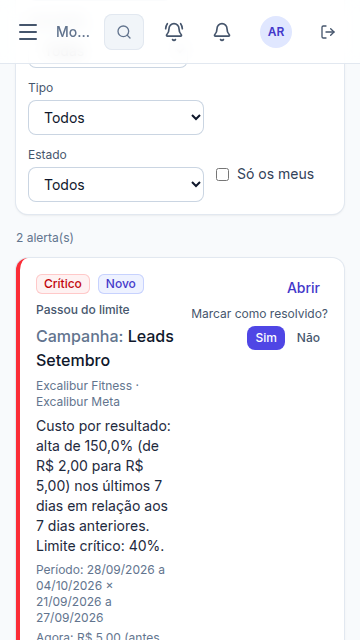
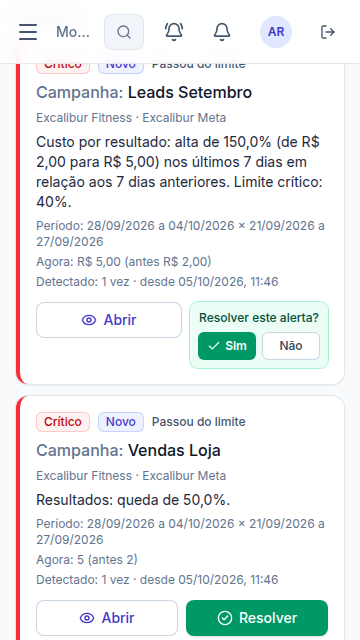
Monitoramento: botão "Resolver" (verde, com ícone) e "Abrir" como botões do mesmo tamanho na lista de alertas
No celular os dois ficam lado a lado no fim do cartão. Teste de navegador e documentação 37.12 atualizados.

Claude-Session: https://claude.ai/code/session_01A5ivfSd6VbkwRJFYwrhVNk

Changed region(s): [[0.0306, 0.0938, 0.9167, 1.0]]

diff --git a/apps/web/src/features/monitoring/alerts.tsx b/apps/web/src/features/monitoring/alerts.tsx
@@ -1,5 +1,5 @@
 import { can, type ComparedMetric, matchesObjectives, PLATFORM_OPTIONS } from "@backstage/shared";
-import { BellRing, CheckCircle2, ClipboardList, ImageOff, Play, Repeat, UserRound } from "lucide-react";
+import { BellRing, Check, CheckCircle2, ClipboardList, Eye, ImageOff, Loader2, Play, Repeat, UserRound } from "lucide-react";
 import { type FormEvent, useState } from "react";
 import { Alert } from "@/components/ui/alert.tsx";
 import { Button } from "@/components/ui/button.tsx";
@@ -145,31 +145,33 @@ function AlertThumb({ url, name }: { url: string | null; name: string }) {
   return <img src={url} alt={`Miniatura de ${name}`} referrerPolicy="no-referrer" loading="lazy" onError={() => setFailed(true)} className="size-14 shrink-0 rounded-lg bg-slate-100 object-cover" />;
 }
 
-/** Botão "Resolvido" da lista: pede confirmação (não dá para reabrir) e o alerta sai da lista de abertos. */
+/** Botão "Resolver" da lista: pede confirmação (não dá para reabrir) e o alerta sai da lista de abertos. */
 function QuickResolve({ a }: { a: MonitorAlertRow }) {
   const resolve = useResolveAlert();
   const [confirm, setConfirm] = useState(false);
   if (!confirm) {
     return (
       <button type="button" onClick={() => setConfirm(true)} data-testid="resolver-rapido"
-        className="inline-flex items-center gap-1 rounded-md px-2 py-1 text-sm font-medium text-emerald-700 hover:bg-emerald-50">
-        <CheckCircle2 className="size-4" aria-hidden /> Resolvido
+        className="inline-flex flex-1 items-center justify-center gap-1.5 rounded-lg bg-emerald-600 px-3 py-2 text-sm font-medium text-white shadow-sm hover:bg-emerald-700 focus-visible:outline-2 focus-visible:outline-offset-2 focus-visible:outline-emerald-600 sm:flex-none">
+        <CheckCircle2 className="size-4" aria-hidden /> Resolver
       </button>
     );
   }
   return (
-    <div className="flex flex-col items-end gap-1" data-testid="confirmar-resolvido">
-      <span className="text-xs text-slate-600">Marcar como resolvido?</span>
-      <div className="flex gap-1">
-        <Button type="button" className="px-2 py-1 text-xs" loading={resolve.isPending}
-          onClick={() => resolve.mutate({ id: a.id, note: "", version: a.version }, { onSuccess: () => setConfirm(false) })}>
-          Sim
-        </Button>
-        <button type="button" onClick={() => setConfirm(false)} className="rounded-md px-2 py-1 text-xs font-medium text-slate-600 hover:bg-slate-100">
+    <div className="flex flex-1 flex-col gap-1.5 rounded-lg bg-emerald-50 p-2 ring-1 ring-emerald-200 sm:flex-none" data-testid="confirmar-resolvido">
+      <span className="text-center text-xs font-medium text-emerald-900">Resolver este alerta?</span>
+      <div className="flex gap-1.5">
+        <button type="button" disabled={resolve.isPending}
+          onClick={() => resolve.mutate({ id: a.id, note: "", version: a.version }, { onSuccess: () => setConfirm(false) })}
+          className="inline-flex flex-1 items-center justify-center gap-1 rounded-md bg-emerald-600 px-2 py-1.5 text-xs font-semibold text-white hover:bg-emerald-700 disabled:opacity-60">
+          {resolve.isPending ? <Loader2 className="size-3.5 animate-spin" aria-hidden /> : <Check className="size-3.5" aria-hidden />} Sim
+        </button>
+        <button type="button" onClick={() => setConfirm(false)} disabled={resolve.isPending}
+          className="flex-1 rounded-md bg-white px-2 py-1.5 text-xs font-medium text-slate-700 ring-1 ring-inset ring-slate-300 hover:bg-slate-50">
           Não
         </button>
       </div>
-      {resolve.error && <span className="max-w-[12rem] text-right text-xs text-red-700">{errorMessage(resolve.error)}</span>}
+      {resolve.error && <span className="text-center text-xs text-red-700">{errorMessage(resolve.error)}</span>}
     </div>
   );
 }
@@ -178,7 +180,8 @@ function AlertCard({ a, now, onOpen, canHandle }: { a: MonitorAlertRow; now: Dat
   const entity = (a.level === "ad" ? a.ad_name : a.campaign_name) ?? "—";
   const metric = a.metric as ComparedMetric;
   return (
-    <Card className={cn("flex gap-3 border-l-4 p-4", SEVERITY_LOOK[a.severity].border)} data-testid="alerta" data-severity={a.severity} data-kind={a.kind}>
+    <Card className={cn("flex flex-col gap-3 border-l-4 p-4 sm:flex-row", SEVERITY_LOOK[a.severity].border)} data-testid="alerta" data-severity={a.severity} data-kind={a.kind}>
+      <div className="flex min-w-0 flex-1 gap-3">
       {a.level === "ad" && <AlertThumb url={a.thumbnail_url} name={entity} />}
       <div className="min-w-0 flex-1 space-y-1.5">
         <div className="flex flex-wrap items-center gap-2">
@@ -240,9 +243,11 @@ function AlertCard({ a, now, onOpen, canHandle }: { a: MonitorAlertRow; now: Dat
           </div>
         )}
       </div>
-      <div className="flex shrink-0 flex-col items-end gap-1">
-        <button type="button" onClick={onOpen} className="rounded-md px-2 py-1 text-sm font-medium text-brand-700 hover:bg-brand-50" data-testid="abrir-alerta">
-          Abrir
+      </div>
+      <div className="flex shrink-0 items-start gap-2 sm:w-36 sm:flex-col sm:items-stretch">
+        <button type="button" onClick={onOpen} data-testid="abrir-alerta"
+          className="inline-flex flex-1 items-center justify-center gap-1.5 rounded-lg bg-white px-3 py-2 text-sm font-medium text-brand-700 ring-1 ring-inset ring-slate-300 hover:bg-brand-50 sm:flex-none">
+          <Eye className="size-4" aria-hidden /> Abrir
         </button>
         {canHandle && !a.resolved_at && <QuickResolve a={a} />}
       </div>
@@ -279,7 +284,7 @@ export function AlertsTab() {
     <div className="space-y-4">
       <Alert tone="info">
         Os alertas são gerados sozinhos, comparando os <strong>últimos 7 dias completos</strong> com os 7 anteriores (e o dia de ontem com os 28 dias antes dele).
-        Cada alerta explica a conta feita; clique em <strong>Abrir</strong> para tratar (estado, responsável, comentários, providências, tarefa) ou em <strong>Resolvido</strong> para tirá-lo da lista (ele vai para Resolvidos, no histórico). <strong>Só alertas críticos, e só de campanhas, conjuntos e anúncios ativos</strong> (o administrador muda a gravidade em Configurações): quando um item é desativado, o alerta dele é encerrado (fica no histórico). Nada é pausado nem alterado nas plataformas.
+        Cada alerta explica a conta feita; clique em <strong>Abrir</strong> para tratar (estado, responsável, comentários, providências, tarefa) ou em <strong>Resolver</strong> para tirá-lo da lista (ele vai para Resolvidos, no histórico). <strong>Só alertas críticos, e só de campanhas, conjuntos e anúncios ativos</strong> (o administrador muda a gravidade em Configurações): quando um item é desativado, o alerta dele é encerrado (fica no histórico). Nada é pausado nem alterado nas plataformas.
       </Alert>
       <Card className="flex flex-wrap items-end gap-3 p-3">
         <div className="inline-flex rounded-lg bg-slate-100 p-1" role="group" aria-label="Quais alertas">

diff --git a/docs/claude/ESTADO-ATUAL.md b/docs/claude/ESTADO-ATUAL.md
@@ -10,7 +10,7 @@
   - etiqueta da forma de pagamento em cada conta.
   - Commit `c0042bd`. Documento: `docs/etapa-07-verificacao-saldo/CORRECAO-2026-09-28-FORMA-DE-PAGAMENTO.md`.
 - **Etapa 36 (Central de Operações) concluída** (36.1 a 36.7). Relatório final: `docs/etapa-36-central-operacoes/36.16-RELATORIO-FINAL.md`.
-- **Etapa 37 (Monitoramento de Desempenho):** auditoria 37.0 aprovada ("pode avançar" = propostas aceitas: menu em Análise antes de Alertas, azul, alerta antigo desligado na 37.3, só link oficial). **37.1 pronta** (30/09/2026): `docs/etapa-37-monitoramento/37.1-BASE.md`. **37.2 pronta** (01/10/2026): `37.2-COMPARATIVOS.md`. **37.3 pronta** (02/10/2026): `37.3-MOTOR-DE-ALERTAS.md` — motor agendado (`monitor-evaluate`, a cada 15 min, respeita a frequência configurada), alerta antigo "Queda de resultados" desligado (reativação em `supabase/rollback/reativar_queda_resultados.sql`). **37.4 pronta** (03/10/2026): `37.4-TRATAR-ALERTAS.md` — tratar alertas no painel do alerta; a lista passou a usar `monitor_alerts_query` (jsonb). **37.5 pronta** (03/10/2026): `37.5-NOTIFICACOES.md` — ícone de avisos próprio do Monitoramento no topo (o sino da Central não mudou), preferências por pessoa, e-mail pela Edge Function `monitor-email` (agendamentos `monitor-emails` a cada 5 min e `monitor-digest` de hora em hora), WhatsApp só "preparado". **37.6 pronta** (03/10/2026): `37.6-VISAO-GERAL-E-INTEGRACAO.md` — resumo (`monitor_summary`) e histórico (`monitor_history`); Visão geral completa, aba Histórico, faixa no dashboard e nas visões Meta/Google, bloco na ficha do cliente. **Etapa 37 concluída**: relatório final em `37.7-RELATORIO-FINAL.md`. **Pedido extra (03/10):** filtro de objetivo da campanha no Monitoramento (`37.8-FILTRO-DE-OBJETIVO.md`): vários objetivos, salvo por pessoa em `monitor_view_prefs`, vale para todas as abas; `monitor_compare/summary/history` ganharam versão com `p_objectives`. **Correção 04/10:** só alertas críticos (`monitor_settings.min_severity`, padrão `critico`; 54 de atenção encerrados com `closed_reason = abaixo_do_minimo`), abas de comparação só com itens ativos (opção para pausados), janela (`Modal`) corrigida no celular; 2ª parte: painéis dos sininhos (`MonitorBell`, `NotificationBell`) em largura de tela no celular (teste `e2e/mobile-panels.mjs`). **3ª parte (04/10):** abas Comparativos/Campanhas/Criativos viraram níveis dentro de Alertas (Alertas · Campanhas · Conjuntos · Anúncios · Criativos · Contas, `?nivel=`), filtro Gravidade, endereços antigos redirecionados (`37.10-NIVEIS-DENTRO-DE-ALERTAS.md`). **05/10:** resultado pela meta de otimização do conjunto (Conversas → conversas etc.), no motor e na tela; `private.monitor_result_kind_for` (`37.11-RESULTADO-PELA-META.md`). Botão "Resolvido" com confirmação direto na lista de alertas (`37.12-BOTAO-RESOLVIDO.md`). Doc: `37.9-CORRECAO-SO-CRITICOS-E-CELULAR.md`.
+- **Etapa 37 (Monitoramento de Desempenho):** auditoria 37.0 aprovada ("pode avançar" = propostas aceitas: menu em Análise antes de Alertas, azul, alerta antigo desligado na 37.3, só link oficial). **37.1 pronta** (30/09/2026): `docs/etapa-37-monitoramento/37.1-BASE.md`. **37.2 pronta** (01/10/2026): `37.2-COMPARATIVOS.md`. **37.3 pronta** (02/10/2026): `37.3-MOTOR-DE-ALERTAS.md` — motor agendado (`monitor-evaluate`, a cada 15 min, respeita a frequência configurada), alerta antigo "Queda de resultados" desligado (reativação em `supabase/rollback/reativar_queda_resultados.sql`). **37.4 pronta** (03/10/2026): `37.4-TRATAR-ALERTAS.md` — tratar alertas no painel do alerta; a lista passou a usar `monitor_alerts_query` (jsonb). **37.5 pronta** (03/10/2026): `37.5-NOTIFICACOES.md` — ícone de avisos próprio do Monitoramento no topo (o sino da Central não mudou), preferências por pessoa, e-mail pela Edge Function `monitor-email` (agendamentos `monitor-emails` a cada 5 min e `monitor-digest` de hora em hora), WhatsApp só "preparado". **37.6 pronta** (03/10/2026): `37.6-VISAO-GERAL-E-INTEGRACAO.md` — resumo (`monitor_summary`) e histórico (`monitor_history`); Visão geral completa, aba Histórico, faixa no dashboard e nas visões Meta/Google, bloco na ficha do cliente. **Etapa 37 concluída**: relatório final em `37.7-RELATORIO-FINAL.md`. **Pedido extra (03/10):** filtro de objetivo da campanha no Monitoramento (`37.8-FILTRO-DE-OBJETIVO.md`): vários objetivos, salvo por pessoa em `monitor_view_prefs`, vale para todas as abas; `monitor_compare/summary/history` ganharam versão com `p_objectives`. **Correção 04/10:** só alertas críticos (`monitor_settings.min_severity`, padrão `critico`; 54 de atenção encerrados com `closed_reason = abaixo_do_minimo`), abas de comparação só com itens ativos (opção para pausados), janela (`Modal`) corrigida no celular; 2ª parte: painéis dos sininhos (`MonitorBell`, `NotificationBell`) em largura de tela no celular (teste `e2e/mobile-panels.mjs`). **3ª parte (04/10):** abas Comparativos/Campanhas/Criativos viraram níveis dentro de Alertas (Alertas · Campanhas · Conjuntos · Anúncios · Criativos · Contas, `?nivel=`), filtro Gravidade, endereços antigos redirecionados (`37.10-NIVEIS-DENTRO-DE-ALERTAS.md`). **05/10:** resultado pela meta de otimização do conjunto (Conversas → conversas etc.), no motor e na tela; `private.monitor_result_kind_for` (`37.11-RESULTADO-PELA-META.md`). Botão "Resolver" com confirmação direto na lista de alertas (`37.12-BOTAO-RESOLVIDO.md`). Doc: `37.9-CORRECAO-SO-CRITICOS-E-CELULAR.md`.
 - **Armadilha (ferramenta do banco):** `execute_sql`/`apply_migration` ficam esperando uma confirmação que nunca aparece (e dão "timeout") quando o SQL tem `TRUNCATE`, `DELETE` ou `DROP`. Use alternativas (ex.: renomear tabelas temporárias) ou peça ao Ander para rodar no SQL Editor. Sobrou uma função vazia de teste, `private.monitor_probe_tmp()` (não faz nada; remover no SQL Editor quando der).
 
 ## 2. Etapas: situação

diff --git a/docs/etapa-37-monitoramento/37.12-BOTAO-RESOLVIDO.md b/docs/etapa-37-monitoramento/37.12-BOTAO-RESOLVIDO.md
@@ -1,12 +1,14 @@
-# Pedido de 05/10/2026: botão "Resolvido" direto na lista de alertas
+# Pedido de 05/10/2026: botão "Resolver" direto na lista de alertas
 
 > Ander: "coloque um botão nos alertas de monitoramento, por exemplo 'resolvido', que ele suma da lista (...) já existe dentro dos alertas, mas quero que tenha uma camada antes, sem precisar abrir".
 
-![Botão Resolvido com confirmação](37.12-resolvido.png)
+![Alerta com os botões Abrir e Resolver](37.12-resolver.png)
+
+![Confirmação no celular](37.12-resolvido-celular.png)
 
 ## O que mudou
-- Cada alerta **aberto** da lista (Monitoramento → Alertas) tem o botão **Resolvido**, abaixo de "Abrir".
-- Clicou → aparece **"Marcar como resolvido? Sim / Não"** (não dá para reabrir um alerta resolvido, por isso a confirmação).
+- Cada alerta **aberto** da lista (Monitoramento → Alertas) tem o botão verde **Resolver**, abaixo de "Abrir" (no celular, lado a lado no fim do cartão). Ajuste do mesmo dia: o nome passou de "Resolvido" para "Resolver" e os dois viraram botões de verdade, do mesmo tamanho.
+- Clicou → aparece **"Resolver este alerta? Sim / Não"** (não dá para reabrir um alerta resolvido, por isso a confirmação).
 - **Sim**: o alerta sai da lista de abertos e vai para **Resolvidos (histórico)** com "Resolvido à mão". Fica registrado na linha do tempo do alerta (quem resolveu e quando). Nada é apagado.
 - É a mesma ação de "Resolver" que já existia dentro do alerta (lá continua dando para escrever uma observação).
 - **Quem vê o botão:** administrador, gestor e operador (quem pode tratar alertas). O visualizador não vê. O banco confere a permissão.
@@ -16,7 +18,7 @@
 - Nenhuma mudança (usa a função `monitor_alert_resolve`, que já existia).
 
 ## Testes
-- `apps/web/e2e/monitoring-quick-resolve.mjs` (novo): **23** verificações ✅ no computador e no celular (360 px): botão em cada alerta, confirmação, "Não" cancela, "Sim" tira da lista, grava como resolvido à mão por quem clicou, linha do tempo, aparece no histórico, sem botão no histórico, visualizador sem botão.
+- `apps/web/e2e/monitoring-quick-resolve.mjs` (novo): **27** verificações ✅ no computador e no celular (360 px): botão "Resolver" em cada alerta e inteiro dentro do cartão, confirmação, "Não" cancela, "Sim" tira da lista, grava como resolvido à mão por quem clicou, linha do tempo, aparece no histórico, sem botão no histórico, visualizador sem botão.
 - Testes do Monitoramento de antes (alertas, tratar, só críticos, objetivo, níveis): todos passaram de novo.
 
 ## Arquivos

diff --git a/README.md b/README.md
@@ -75,7 +75,7 @@ O projeto é construído em etapas. A documentação de cada etapa fica em [`doc
   - [Correção: só alertas críticos, só itens ativos e janela do alerta e painéis dos sininhos no celular](docs/etapa-37-monitoramento/37.9-CORRECAO-SO-CRITICOS-E-CELULAR.md) ✅ concluída
   - [Correção: Campanhas, Conjuntos, Anúncios, Criativos e Contas como níveis dentro de Alertas](docs/etapa-37-monitoramento/37.10-NIVEIS-DENTRO-DE-ALERTAS.md) ✅ concluída
   - [Correção: resultado pela meta de otimização do conjunto (igual ao Gerenciador)](docs/etapa-37-monitoramento/37.11-RESULTADO-PELA-META.md) ✅ concluída
-  - [Botão "Resolvido" direto na lista de alertas](docs/etapa-37-monitoramento/37.12-BOTAO-RESOLVIDO.md) ✅ concluída
+  - [Botão "Resolver" direto na lista de alertas](docs/etapa-37-monitoramento/37.12-BOTAO-RESOLVIDO.md) ✅ concluída
 
 ## Estrutura
 
